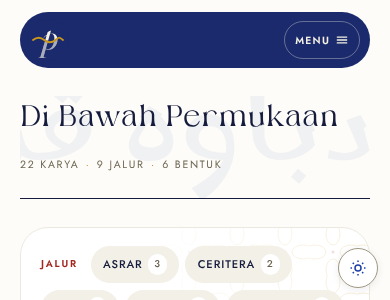
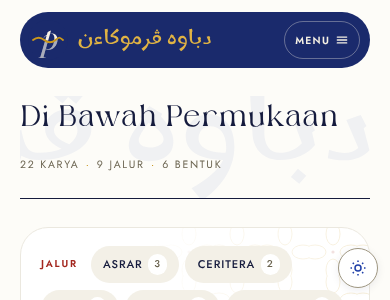
Front page header: show the Jawi name in gold beside the brandmark
Claude-Session: https://claude.ai/code/session_01Er8Hpy67qX5wHknT6MnoT1

Changed region(s): [[0.1846, 0.09, 0.5538, 0.18]]

diff --git a/assets/css/frontend.css b/assets/css/frontend.css
@@ -302,8 +302,8 @@ a:focus-visible, button:focus-visible { border-radius: var(--bwp-pill); }
 }
 .bwp-site-header__jawi { font-family: var(--bwp-font-jawi); font-size: 1rem; line-height: 1; color: var(--h-gold); }
 .bwp-site-header__tagline, .bwp-site-header__section, .bwp-site-header__band { display: none; }
-.bwp-site-header--front .bwp-brand__text { position: absolute; width: 1px; height: 1px; overflow: hidden; clip: rect(0 0 0 0); clip-path: inset(50%); white-space: nowrap; }
-.bwp-site-header--front .bwp-brand { gap: 0; }
+.bwp-site-header--front .bwp-site-header__title { position: absolute; width: 1px; height: 1px; overflow: hidden; clip: rect(0 0 0 0); clip-path: inset(50%); white-space: nowrap; }
+.bwp-site-header--front .bwp-site-header__jawi { font-size: 1.45rem; }
 
 .bwp-nav-toggle { display: none; }
 .bwp-nav { grid-area: nav; }
@@ -1205,6 +1205,7 @@ html.bwp-night .bwp-badge--karmina, body.bwp-night .bwp-badge--karmina { color: 
     .bwp-brand__mark { width: 40px; height: 40px; }
     .bwp-site-header__title { font-size: 1.02rem; }
     .bwp-site-header__jawi { display: none; }
+    .bwp-site-header--front .bwp-site-header__jawi { display: inline; font-size: 1.25rem; }
 
     .bwp-nav-toggle {
         grid-area: toggle; align-self: center;

diff --git a/header.php b/header.php
@@ -49,7 +49,8 @@
         $bwp_site_name = get_option( 'book_wp_anthology_name', '' );
         $bwp_site_name = $bwp_site_name ? $bwp_site_name : get_bloginfo( 'name' );
         // On the front page the half-title H1 already sets the name, so the
-        // pill shows the brandmark alone and keeps the name for screen readers.
+        // pill shows the brandmark with the Jawi name and keeps the Latin name for
+        // screen readers.
         ?>
         <a class="bwp-brand" href="<?php echo esc_url( home_url( '/' ) ); ?>" rel="home">
             <?php if ( has_custom_logo() ) : ?>
